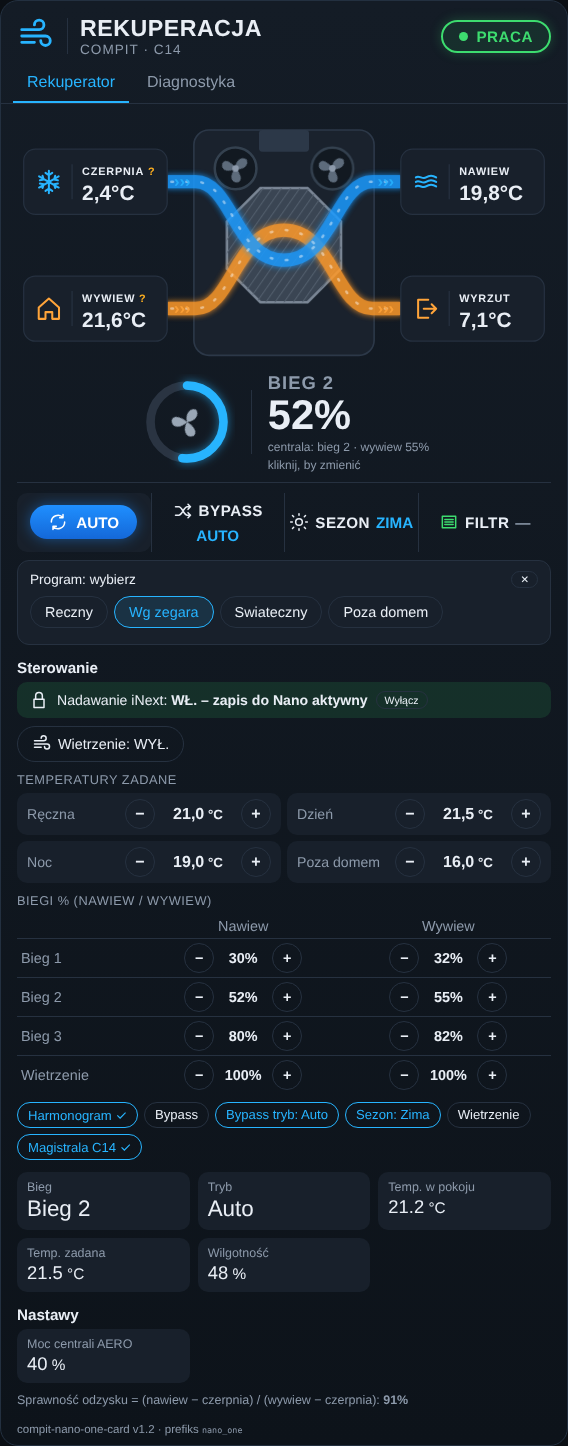
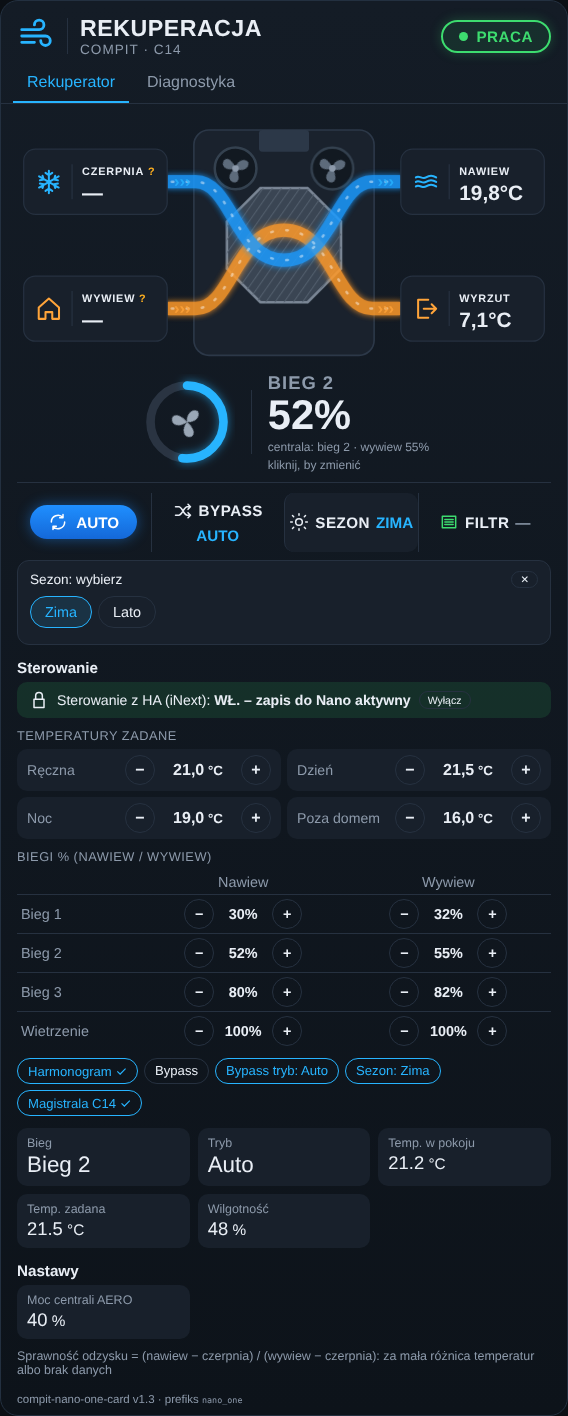
v1.3
Claude-Session: https://claude.ai/code/session_017S8EUFbn8JFjnwiiZcYLWz

diff --git a/dist/compit-nano-one-card.js b/dist/compit-nano-one-card.js
@@ -1,5 +1,5 @@
 /*
- * compit-nano-one-card  v1.2
+ * compit-nano-one-card  v1.3
  * Karta Home Assistant dla rekuperacji sterowanej przez Compit Nano One (RS485, protokol C14),
  * czytanej przez ESP z ESPHome. Jeden plik, bez zaleznosci.
  *
@@ -17,7 +17,7 @@
  * Jesli encji nie ma w podanej domenie, karta szuka tej samej koncowki w innych domenach.
  */
 (() => {
-const VERSION = 'v1.2';
+const VERSION = 'v1.3';
 
 // klucz: [domena, koncowka, opis, jednostka zapasowa]
 const DEFAULT_E = {
@@ -110,12 +110,13 @@ const DEFAULT_E = {
   status_went:  ['sensor', 'status_wentylatorow',        'Status wentylatorów', ''],
   bieg_centr:   ['sensor', 'bieg_centrali',              'Bieg centrali',    ''],
   harm_akt:     ['binary_sensor', 'harmonogram_aktywny', 'Harmonogram',      ''],
+  set_tryb:     ['select', 'ustaw_tryb',                 'Tryb pracy',       ''],
   set_bieg:     ['select', 'ustaw_bieg',                 'Bieg',             ''],
   set_program:  ['select', 'ustaw_program',              'Program',          ''],
   set_sezon:    ['select', 'ustaw_sezon',                'Sezon',            ''],
   set_bypass:   ['select', 'ustaw_bypass',               'Bypass',           ''],
   sw_wietrz:    ['switch', 'wietrzenie',                 'Wietrzenie',       ''],
-  nadawanie:    ['switch', 'nadawanie_inext',            'Nadawanie iNext',  ''],
+  nadawanie:    ['switch', 'sterowanie_z_ha_inext|sterowanie_z_ha|nadawanie_inext', 'Sterowanie z HA (iNext)', ''],
   t_reczna:     ['number', 'temperatura_reczna',         'Ręczna',           '°C'],
   t_dzien:      ['number', 'temperatura_dzien',          'Dzień',            '°C'],
   t_noc:        ['number', 'temperatura_noc',            'Noc',              '°C'],
@@ -262,12 +263,16 @@ class CompitNanoOneCard extends HTMLElement {
     const ov = this._config.entities && this._config.entities[key];
     if (ov) return ov;
     if (this._resolved[key] && this._hass && this._hass.states[this._resolved[key]]) return this._resolved[key];
-    const [dom, suf] = DEFAULT_E[key];
-    const obj = this._prefix + '_' + suf;
-    let id = dom + '.' + obj;
+    const [dom, sufs] = DEFAULT_E[key];
+    // v1.3: koncowka moze miec warianty "a|b" (nazwy z roznych wersji YAML), pierwszy znaleziony wygrywa
+    const alts = String(sufs).split('|');
+    let id = dom + '.' + this._prefix + '_' + alts[0];
     if (this._hass && !this._hass.states[id]) {
-      for (const d of ['sensor', 'binary_sensor', 'text_sensor', 'select', 'number', 'switch', 'fan', 'climate']) {
-        if (this._hass.states[d + '.' + obj]) { id = d + '.' + obj; break; }
+      search: for (const suf of alts) {
+        const obj = this._prefix + '_' + suf;
+        for (const d of [dom, 'sensor', 'binary_sensor', 'text_sensor', 'select', 'number', 'switch', 'fan', 'climate']) {
+          if (this._hass.states[d + '.' + obj]) { id = d + '.' + obj; break search; }
+        }
       }
     }
     this._resolved[key] = id;
@@ -439,7 +444,7 @@ class CompitNanoOneCard extends HTMLElement {
       else if (a === 'no') this._confirmTx = false;
       else if (a === 'yes' && n) {
         this._confirmTx = false;
-        this._call('switch', n.state === 'on' ? 'turn_off' : 'turn_on', { entity_id: n.entity_id }, 'Nadawanie iNext → ' + (n.state === 'on' ? 'WYŁ.' : 'WŁ.'));
+        this._call('switch', n.state === 'on' ? 'turn_off' : 'turn_on', { entity_id: n.entity_id }, 'Sterowanie z HA → ' + (n.state === 'on' ? 'WYŁ.' : 'WŁ.'));
       }
       this._render();
     }));
@@ -560,8 +565,9 @@ class CompitNanoOneCard extends HTMLElement {
     if (/^\d+$/.test(bl)) bl = 'BIEG ' + bl; else bl = bl.toUpperCase();
     const C = 2 * Math.PI * 38, p = pct === null ? 0 : Math.max(0, Math.min(100, pct));
     const run = this._running();
-    const can = !!this._st('set_bieg');
-    return `<div class="gauge ${can ? 'click' : ''}" ${can ? 'data-pop="bieg"' : `data-e="${esc(this._id('bieg'))}"`}>
+    const gp = this._st('set_tryb') ? 'tryb' : 'bieg';
+    const can = !!this._st('set_' + gp);
+    return `<div class="gauge ${can ? 'click' : ''}" ${can ? `data-pop="${gp}"` : `data-e="${esc(this._id('bieg'))}"`}>
       <svg viewBox="0 0 100 100" class="ring"><circle cx="50" cy="50" r="38" class="rbg"/>
         <circle cx="50" cy="50" r="38" class="rfg" stroke-dasharray="${(C * p / 100).toFixed(1)} ${C.toFixed(1)}" transform="rotate(-90 50 50)"/>
         <g transform="translate(50 50)"><g class="${run ? 'spin' : ''}" style="animation-duration:2s"><path d="M0 -16 C7 -14 6 -4 0 0 C-6 -4 -7 -14 0 -16Z M13.9 8 C10 14.5 1 10.5 0 0 C9.5 -1 16 3 13.9 8Z M-13.9 8 C-16 3 -9.5 -1 0 0 C-1 10.5 -10 14.5 -13.9 8Z" class="rblade"/></g></g></svg>
@@ -584,7 +590,7 @@ class CompitNanoOneCard extends HTMLElement {
     };
     const filtrOk = filtr === null ? null : !/(wymie|brud|zabr|alarm|on|1)/i.test(filtr);
     return `<div class="bar">
-      ${cell('program', 'tryb', 'sync', 'PROGRAM', prog ? prog.toUpperCase() : null, '', true)}
+      ${cell(this._st('set_tryb') ? 'tryb' : 'program', 'tryb', 'sync', 'PROGRAM', prog ? prog.toUpperCase() : null, '', true)}
       ${cell('bypass', 'bypass_tryb', 'shuf', 'BYPASS', (byp ? byp.toUpperCase() : (this._st('bypass') ? (bypOpen ? 'OTWARTY' : 'ZAMKNIĘTY') : null)) + (byp && bypOpen ? ' ·  OTW.' : ''), 'acc')}
       ${cell('sezon', 'sezon', 'sun', 'SEZON', sez ? sez.toUpperCase() : null, 'acc')}
       <div class="bcell" data-e="${esc(this._id('filtr'))}">${ico('filt', filtrOk === false ? 'bad' : 'good')}<span class="bl">FILTR</span> <b class="${filtrOk === null ? 'mute' : filtrOk ? 'good' : 'bad'}">${filtr === null ? '—' : filtrOk ? 'OK' : esc(filtr.toUpperCase())}</b></div>
@@ -599,7 +605,7 @@ class CompitNanoOneCard extends HTMLElement {
     const opts = s.attributes.options || [];
     const can = this._canWrite();
     return `<div class="pop">
-      <div class="poph">${esc(DEFAULT_E[key][2])}: wybierz${can ? '' : ' <span class="warn">(zapis wyłączony, włącz „Nadawanie iNext”)</span>'}<button class="mini x" data-popclose>✕</button></div>
+      <div class="poph">${esc(DEFAULT_E[key][2])}: wybierz${can ? '' : ' <span class="warn">(zapis wyłączony, włącz „Sterowanie z HA”)</span>'}<button class="mini x" data-popclose>✕</button></div>
       <div class="row">${opts.map((o) => `<button class="opt ${o === s.state ? 'on' : ''}" data-opt="${esc(o)}" data-optkey="${key}" ${can ? '' : 'disabled'}>${esc(o)}</button>`).join('')}</div>
     </div>`;
   }
@@ -625,7 +631,7 @@ class CompitNanoOneCard extends HTMLElement {
     let lock = '';
     if (nadaw) {
       const on = nadaw.state === 'on';
-      lock = `<div class="lock ${on ? 'on' : ''}">${ico('lock')}<span>Nadawanie iNext: <b>${on ? 'WŁ. – zapis do Nano aktywny' : 'WYŁ. – zapis wyłączony'}</b></span>
+      lock = `<div class="lock ${on ? 'on' : ''}">${ico('lock')}<span>Sterowanie z HA (iNext): <b>${on ? 'WŁ. – zapis do Nano aktywny' : 'WYŁ. – zapis wyłączony'}</b></span>
         ${this._confirmTx ? `<span class="warn">Na pewno ${on ? 'wyłączyć' : 'włączyć'}?</span><button class="mini" data-tx="yes">Tak</button><button class="mini" data-tx="no">Nie</button>`
           : `<button class="mini" data-tx="ask">${on ? 'Wyłącz' : 'Włącz'}</button>`}</div>`;
     }

diff --git a/README.md b/README.md
@@ -31,16 +31,18 @@ Podgląd jest zrobiony na przykładowych wartościach.
 
 Kliknięcie w wartość otwiera standardowe okno encji HA. Karta tylko czyta, niczego nie zmienia w centrali.
 
-## Sterowanie (YAML v1.4, zapis do Nano jako iNext)
+## Sterowanie z karty (YAML v1.6, zapis do Nano jako iNext)
 
-Przyciski pojawiają się tylko, gdy w HA są encje sterujące z ESPHome:
-- klik w wskaźnik biegu: Stop / Bieg 1 / 2 / 3 (`select.<prefix>_ustaw_bieg`)
-- klik w PROGRAM / BYPASS / SEZON: lista opcji (`select.<prefix>_ustaw_program`, `_ustaw_bypass`, `_ustaw_sezon`)
-- Wietrzenie wł./wył. (`switch.<prefix>_wietrzenie`)
-- Temperatury zadane z +/−: ręczna, dzień, noc, poza domem (`number.*`)
-- Biegi % z +/−: nawiew i wywiew dla biegów 1–3 i wietrzenia (`number.*`)
+Wszystko zmieniasz w karcie, nie w encjach ESP. Przyciski pojawiają się, gdy w HA są encje sterujące z ESPHome:
+- klik we wskaźnik biegu albo w PROGRAM: Ręczny Stop / Ręczny bieg 1–3 / Wg zegara / Świąteczny / Poza domem (`select.<prefix>_ustaw_tryb`)
+- klik w BYPASS: Zamknięty / Auto / Otwarty (`select.<prefix>_ustaw_bypass`)
+- klik w SEZON: Zima / Lato (`select.<prefix>_ustaw_sezon`)
+- Temperatury zadane z +/−: ręczna, dzień, noc, poza domem, 5–40 °C co 0,1 (`number.*`)
+- Biegi % z +/−: nawiew i wywiew dla biegów 1–3 i wietrzenia, 10–100 % (`number.*`)
 
-**Blokada:** gdy jest przełącznik `switch.<prefix>_nadawanie_inext` i jest WYŁ., wszystkie przyciski są nieaktywne. Włącza się go w karcie z potwierdzeniem „Na pewno?”. Każdy zapis i każdy błąd zapisu trafia do logu zdarzeń w Diagnostyce.
+Ze starszym YAML-em (v1.4) karta dalej działa na `ustaw_bieg`, `ustaw_program`, przełączniku `wietrzenie` i `nadawanie_inext`.
+
+**Blokada:** przełącznik `switch.<prefix>_sterowanie_z_ha_inext` („Sterowanie z HA (iNext)”). Gdy jest WYŁ., wszystkie przyciski są nieaktywne. Włączasz go w karcie z potwierdzeniem „Na pewno?”. Każdy zapis i każdy błąd zapisu trafia do logu zdarzeń w Diagnostyce.
 
 ## Instalacja przez HACS
 
@@ -148,12 +150,13 @@ Surowa ramka (`ostatnia_ramka`) to tekst HEX, np. `A9 10 35 63 … 23`. Może by
 | `status_went` | `sensor.<prefix>_status_wentylatorow` | Status wentylatorów |
 | `bieg_centr` | `sensor.<prefix>_bieg_centrali` | Bieg centrali |
 | `harm_akt` | `binary_sensor.<prefix>_harmonogram_aktywny` | Harmonogram |
+| `set_tryb` | `select.<prefix>_ustaw_tryb` | Tryb pracy |
 | `set_bieg` | `select.<prefix>_ustaw_bieg` | Bieg |
 | `set_program` | `select.<prefix>_ustaw_program` | Program |
 | `set_sezon` | `select.<prefix>_ustaw_sezon` | Sezon |
 | `set_bypass` | `select.<prefix>_ustaw_bypass` | Bypass |
 | `sw_wietrz` | `switch.<prefix>_wietrzenie` | Wietrzenie |
-| `nadawanie` | `switch.<prefix>_nadawanie_inext` | Nadawanie iNext |
+| `nadawanie` | `switch.<prefix>_sterowanie_z_ha_inext` lub `_sterowanie_z_ha` lub `_nadawanie_inext` | Sterowanie z HA (iNext) |
 | `t_reczna` | `number.<prefix>_temperatura_reczna` | Ręczna |
 | `t_dzien` | `number.<prefix>_temperatura_dzien` | Dzień |
 | `t_noc` | `number.<prefix>_temperatura_noc` | Noc |
@@ -175,6 +178,7 @@ Encje diagnostyczne i konfiguracyjne (`entity_category` w ESPHome) nie trafiają
 
 ## Wersje
 
+- **v1.3** – sterowanie z karty pod YAML v1.6: jeden wybór trybu (`ustaw_tryb`: ręczny stop/bieg 1–3, wg zegara, świąteczny, poza domem) z wskaźnika biegu i z PROGRAM, blokada „Sterowanie z HA (iNext)”, warianty nazw encji (karta działa ze starym i nowym YAML-em).
 - **v1.2** – wygląd wg wzoru (ciemny panel, schemat wymiennika z kaflami, wskaźnik biegu, pasek PROGRAM/BYPASS/SEZON/FILTR, plakietka PRACA), sterowanie pod YAML v1.4 (bieg, program, bypass, sezon, wietrzenie, temperatury zadane, % biegów) z blokadą „Nadawanie iNext”, w Diagnostyce ramki wysłane iNext i ostatnia wymiana iNext, opcje `theme` i `niepewne`.
 - **v1.1** – pod YAML v1.3: plakietki (wentylacja, bypass tryb, sezon, chłodzenie, wietrzenie, urlop, poza domem), sekcja Nastawy, znacznik „?” dla niepewnych encji, encje diagnostyczne przeniesione do Diagnostyki (surowe pola C14, rejestry, serwis, ustawienia ESP), wszystkie ramki C14 (Nano status/nastawy, E3 3A/3B, AERO, surowe bajty) z przełącznikiem źródła, więcej liczników magistrali.
 - **v1.0** – pierwsza wersja: zakładki Rekuperator i Diagnostyka, kopiowanie i pobieranie całego logu, dekoder ramek C14, automatyczne kafle dla nieznanych encji.
